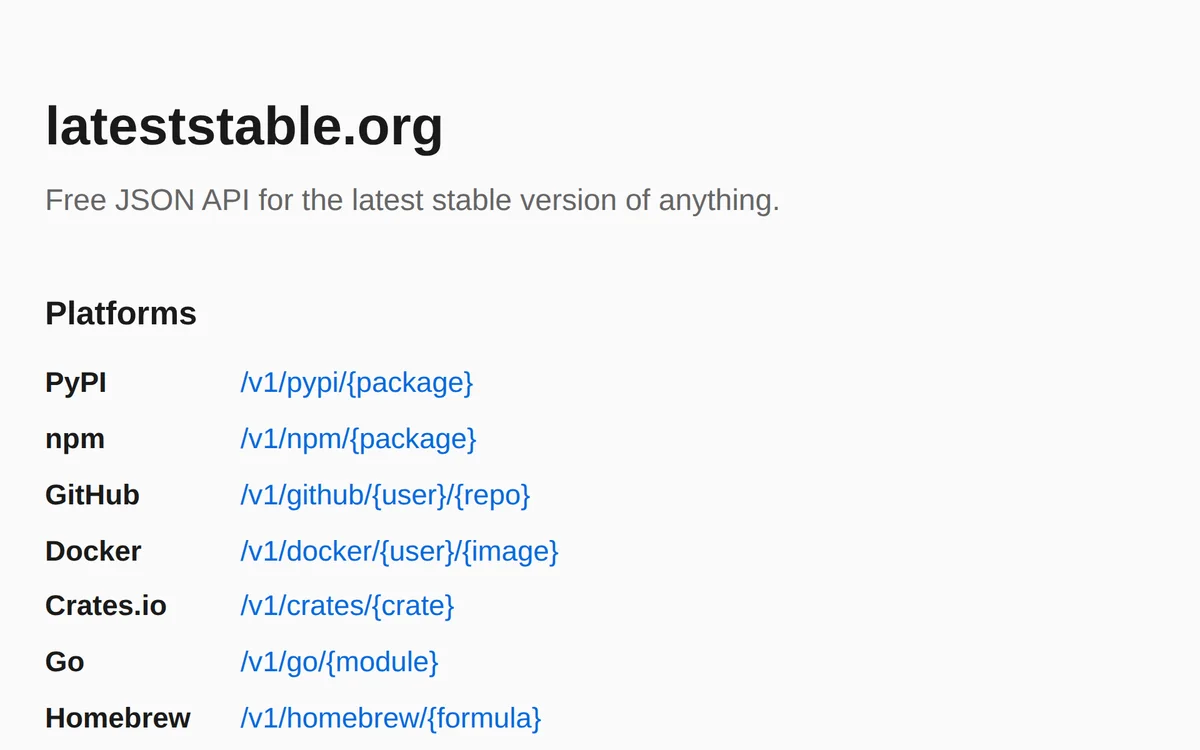
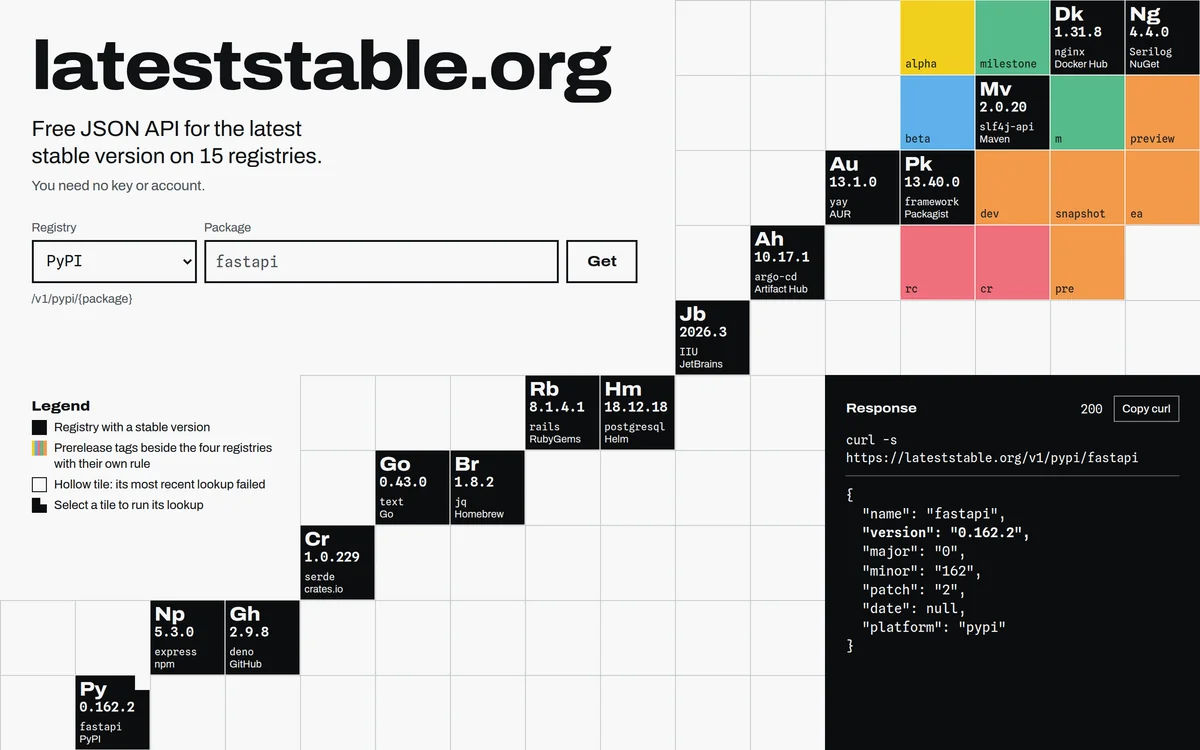
Projects: retake the lateststable screenshot after its redesign
Claude-Session: https://claude.ai/code/session_019cB2SWUnQJ1y2NBQk2fNR4

diff --git a/.impeccable/surfaces/content-projects-md.md b/.impeccable/surfaces/content-projects-md.md
@@ -25,4 +25,4 @@ FORM: Wall of plates, two aligned columns in document order, equal plate widths.
 
 FINISH: unreviewed and undocumented is unfinished; this build ends with the finish review, the verdict, DESIGN.md, and every shipping raster carrying its provenance
 
-Raster provenance: the six files in `static/images/projects/` are Playwright screenshots of each project's live homepage (the `url` in `content/projects.md`), captured 2026-11-09 and resized to 1200x750. Not generated. Viewports: grid and adfeed 1280x800 at 2x, full frame; isde 1280 wide, clip 1136x710 at x 72; zonecheck 1280 wide, clip 1216x760 at x 32; nbcheck 1280 wide, clip 1254x784 at x 13; lateststable 640 wide at 3x, clip 640x400 at y 3. Kept here because a sidecar in `static/` would ship publicly.
+Raster provenance: the six files in `static/images/projects/` are Playwright screenshots of each project's live homepage (the `url` in `content/projects.md`), captured 2026-11-09 and resized to 1200x750. Not generated. Viewports: grid, adfeed and lateststable 1280x800 at 2x, full frame (lateststable after 8 s, when its 15 tiles have versions); isde 1280 wide, clip 1136x710 at x 72; zonecheck 1280 wide, clip 1216x760 at x 32; nbcheck 1280 wide, clip 1254x784 at x 13. Kept here because a sidecar in `static/` would ship publicly.

diff --git a/content/projects.md b/content/projects.md
@@ -12,7 +12,7 @@ closing = "I do this kind of thing for teams too, on contract; [working with me]
 [[params.projects]]
 name = "lateststable.org"
 image = "lateststable"
-alt = "The lateststable.org homepage: the start of its plain list of platforms with their API paths."
+alt = "The lateststable.org homepage, with a registry and package lookup form, a staircase of version tiles for its 15 registries and a live JSON response for fastapi."
 url = "https://lateststable.org"
 source = "https://github.com/rdeknijf/lateststable"
 curl = "curl -s https://lateststable.org/v1/pypi/fastapi"
